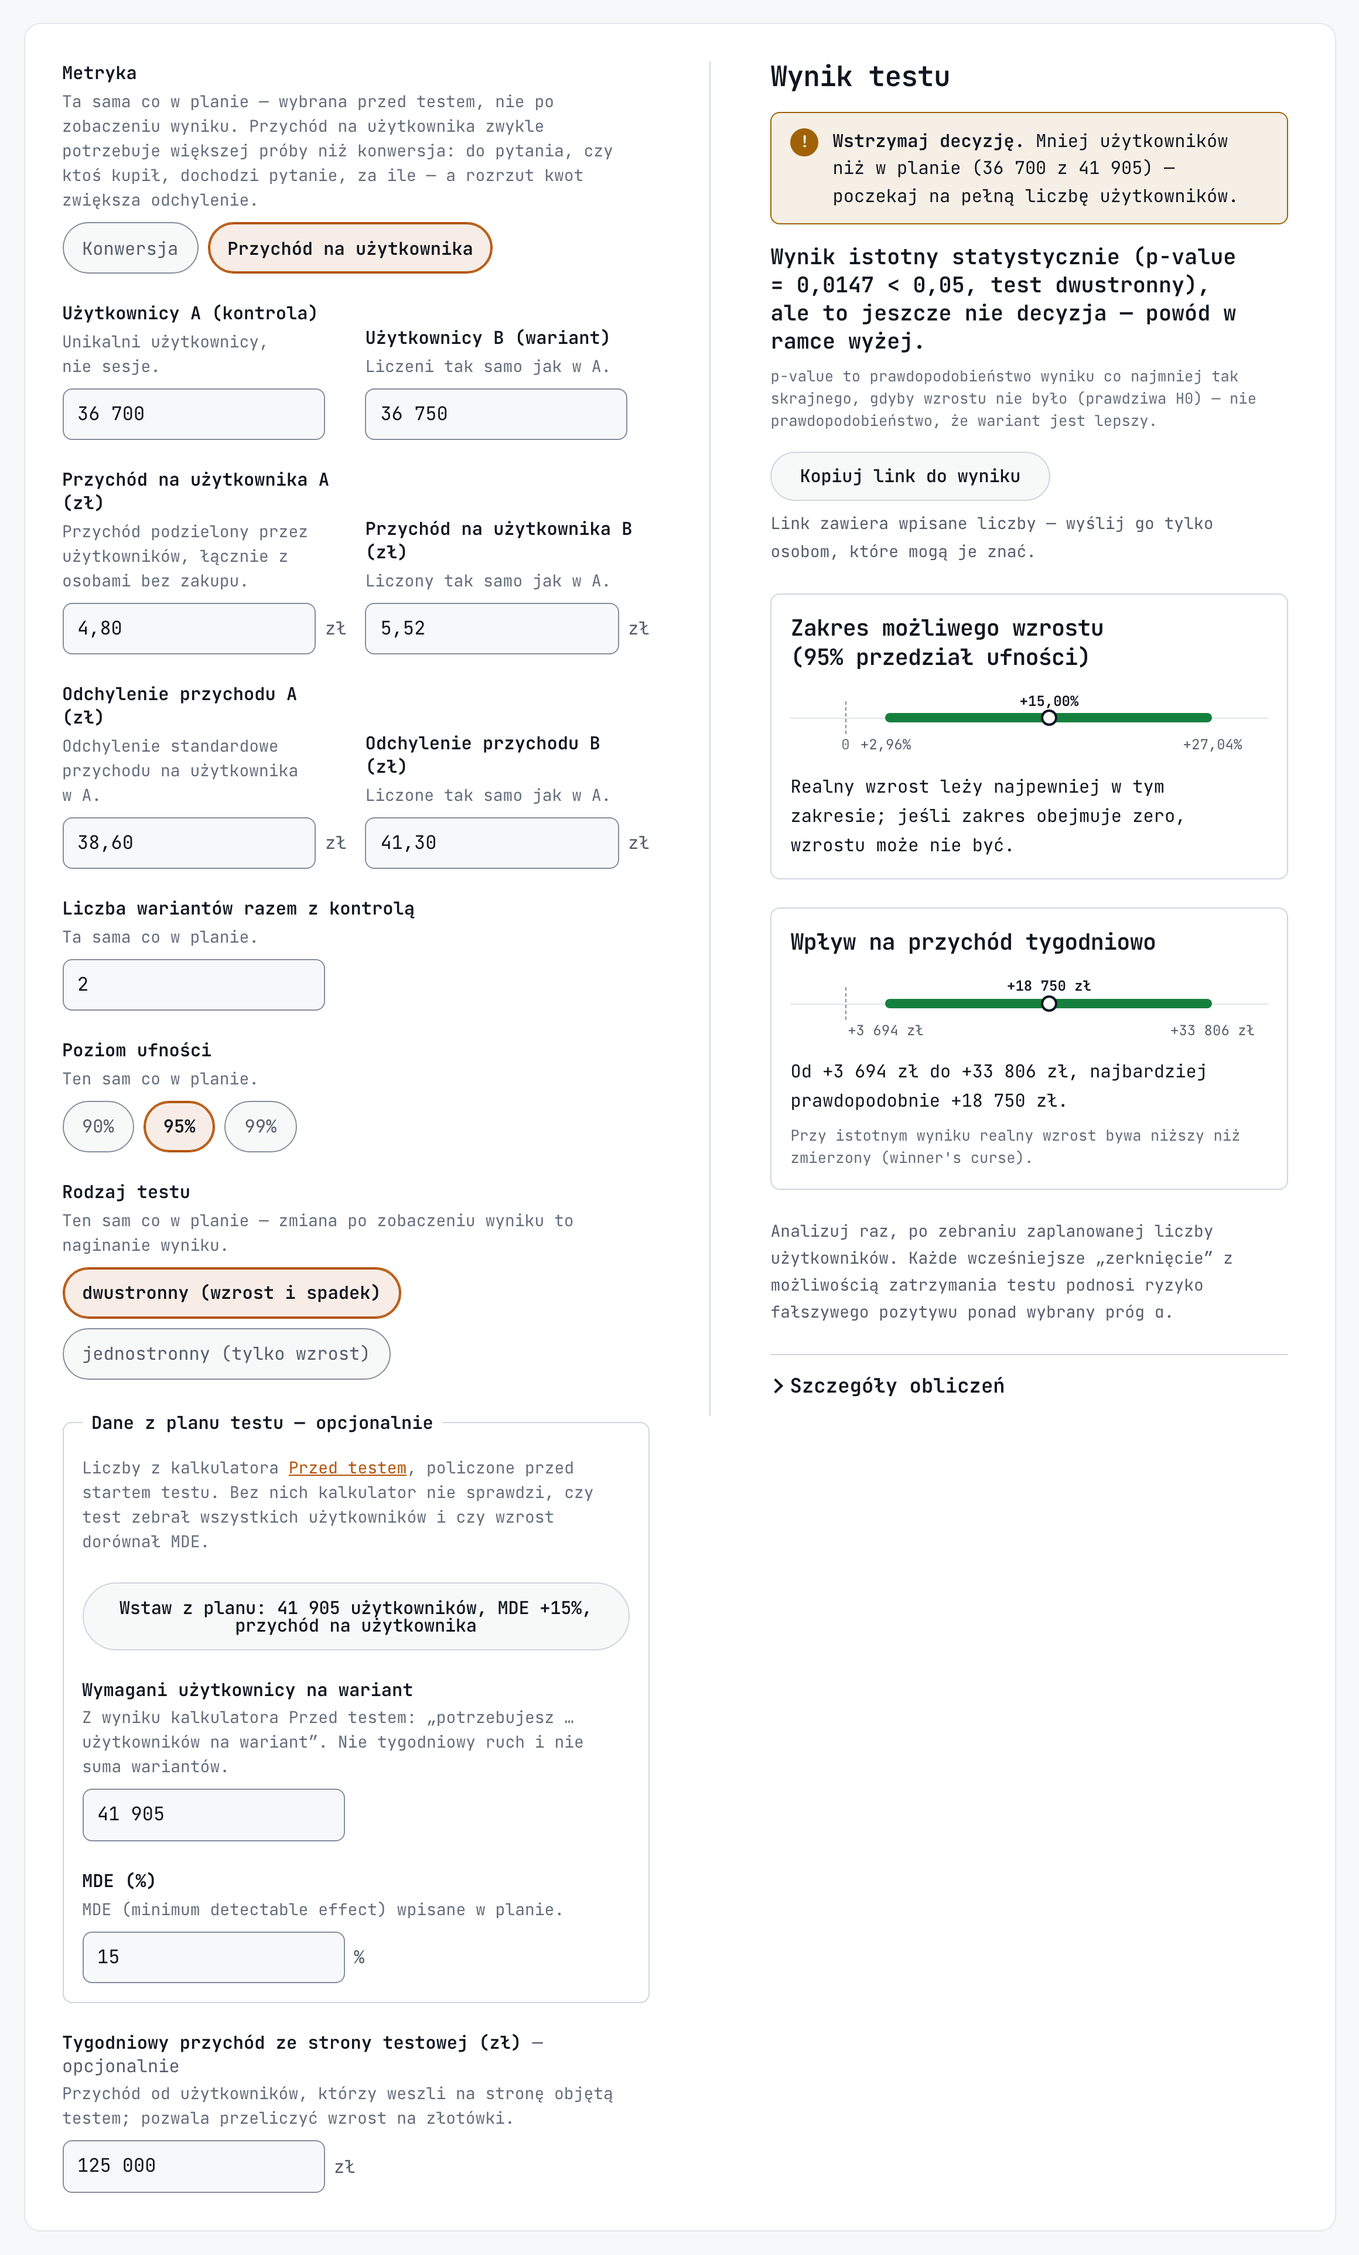
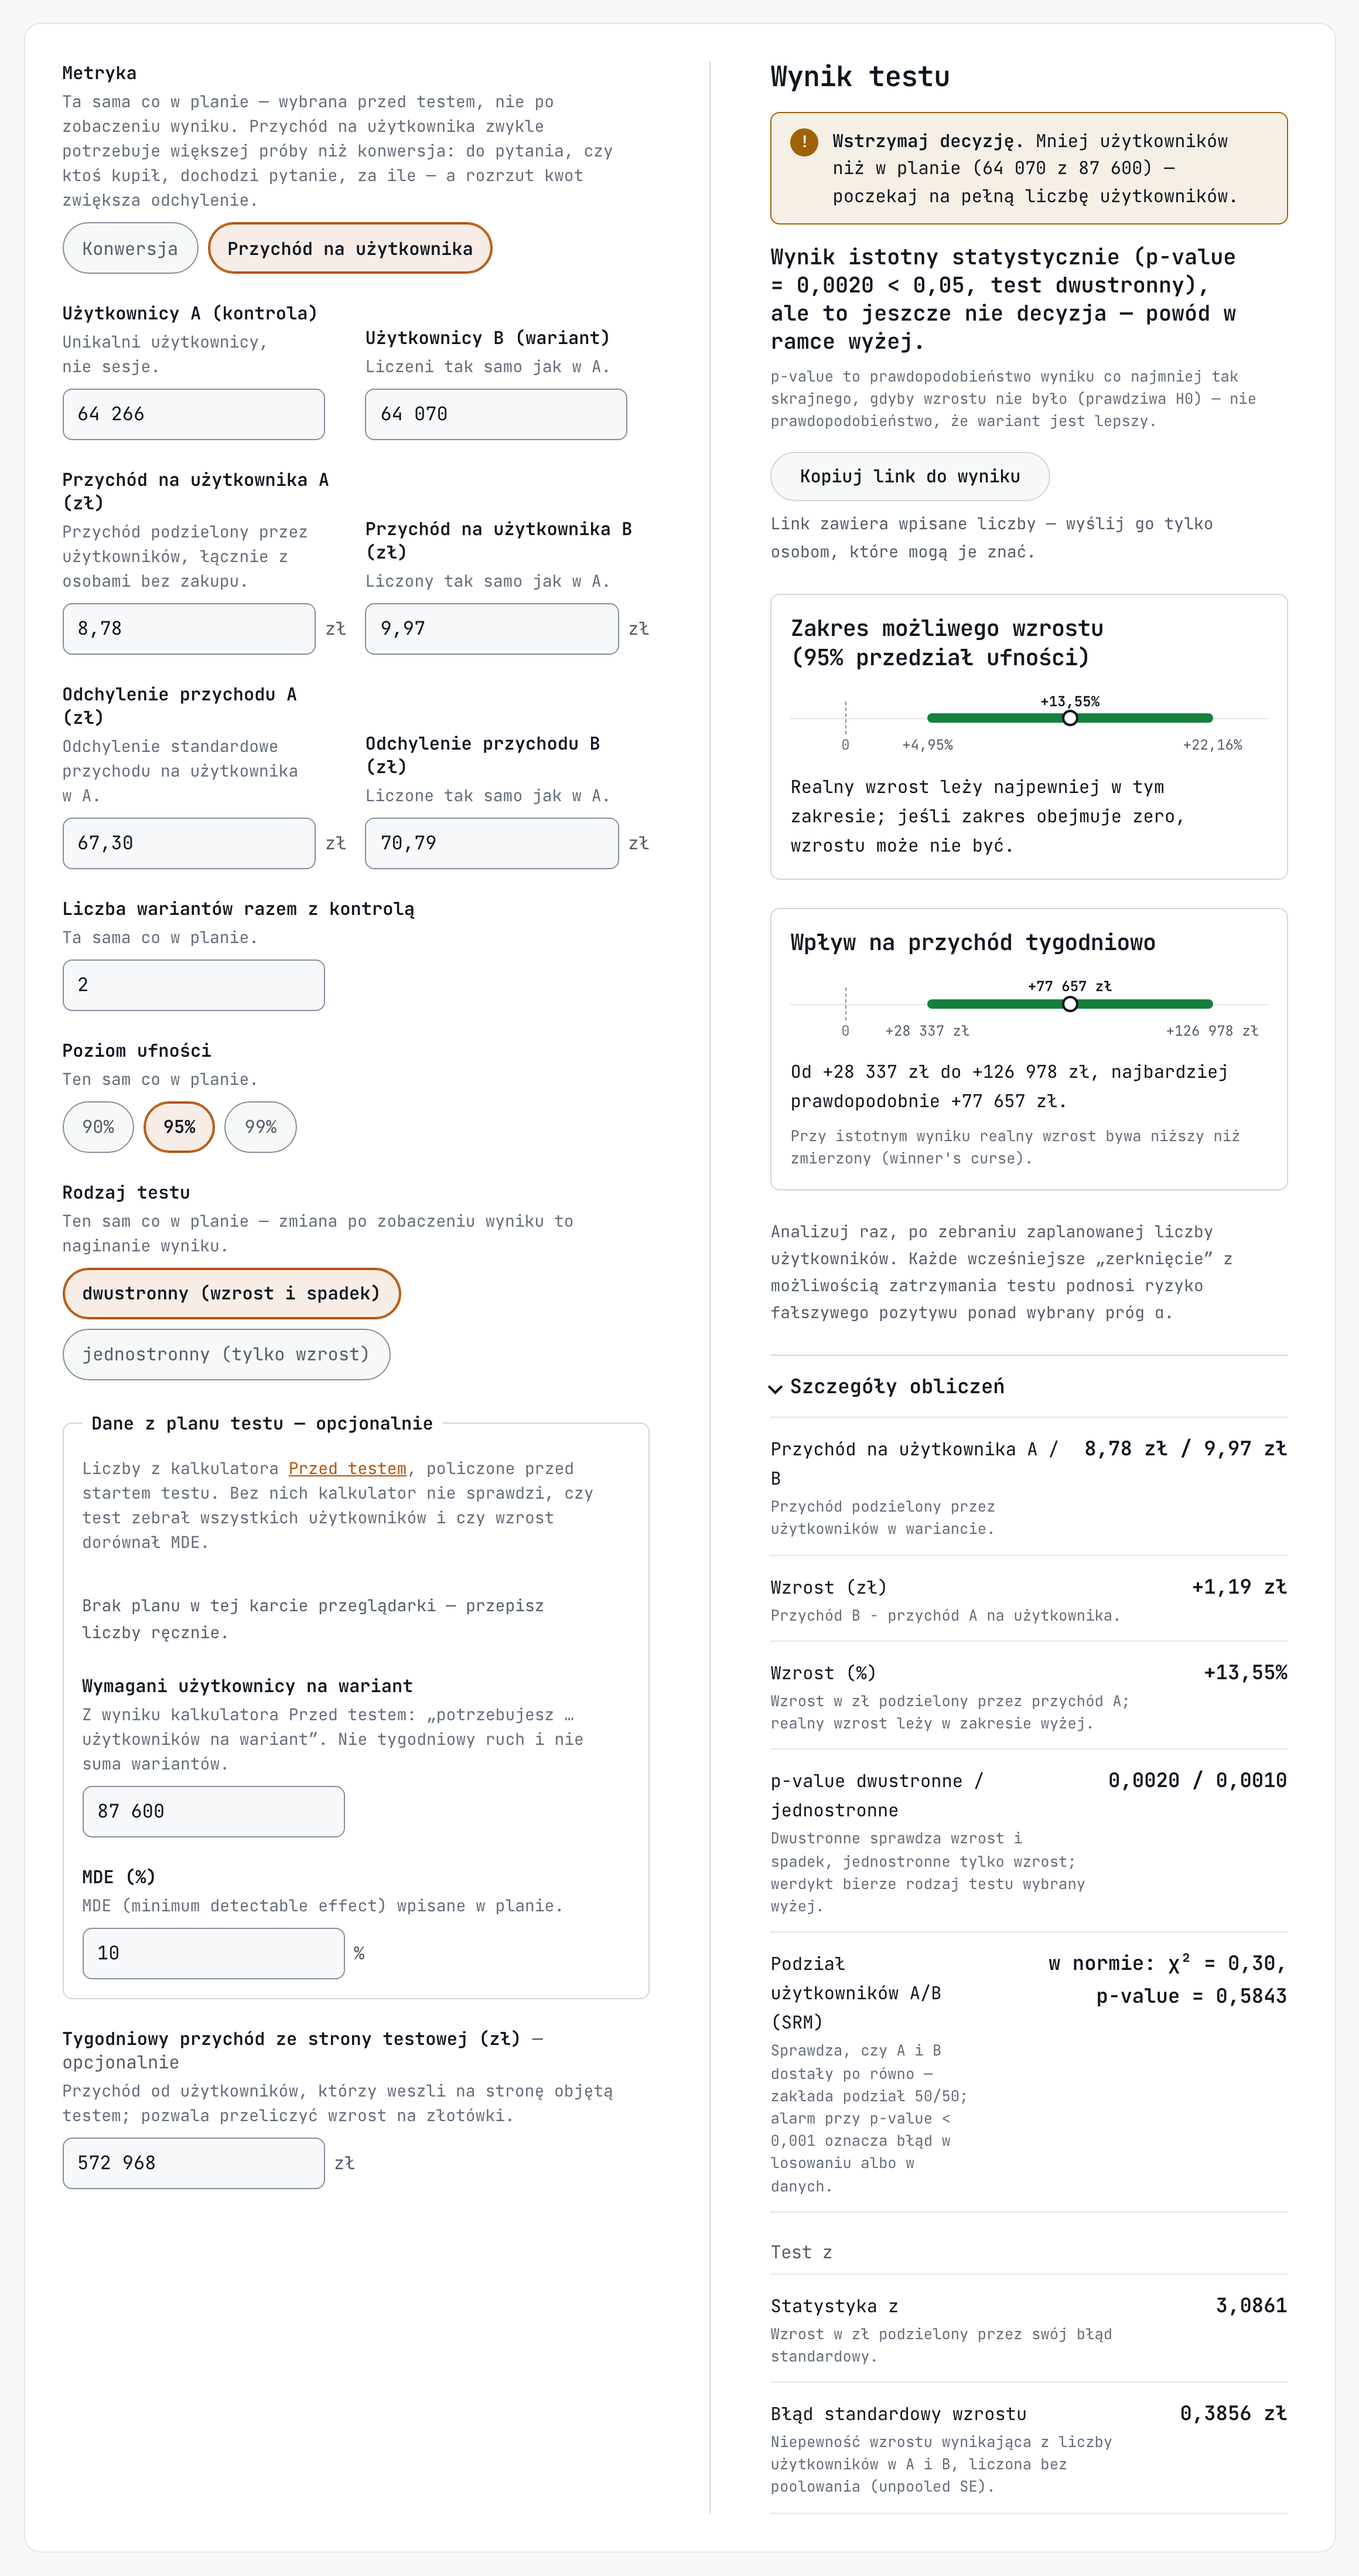
docs: zrzuty kalkulatorów i wyników BigQuery dla testu ab2
Kalkulatory z rozwiniętymi szczegółami obliczeń, pod nimi wyniki 01, 02 i 03 z BigQuery; przykład w README na liczbach ab2.

diff --git a/README.md b/README.md
@@ -11,7 +11,7 @@ Wynik `03` dla wszystkich testów naraz, z testami danych: [projekt dbt](dbt/REA
 
 ## Szybki start
 
-1. Podmień `twoj-projekt.analytics_123456789.events_*` na swój eksport GA4 — w każdym pliku w dwóch miejscach.
+1. Podmień `ab-test-sandbox.ga4_syntetyczny.events_*` (dane syntetyczne) na swój eksport GA4, np. `twoj-projekt.analytics_123456789.events_*` — w każdym pliku w dwóch miejscach.
 2. Ustaw `DECLARE` (opis w nagłówku pliku); `ASSERT` zatrzyma zapytanie przy złej wartości albo brakujących dniach eksportu.
 3. Uruchom i przepisz liczby do kalkulatora według kroków.
 
@@ -55,16 +55,24 @@ Oba kalkulatory mają przełącznik „Metryka”: wybierasz ją w planie i tę 
 - **Konwersja (CR)** = konwertujący / użytkownicy: czy więcej osób kupuje. Nie widzi koszyka — upsell z CR −2% i koszykiem +10% wyjdzie jako przegrana.
 - **Przychód na użytkownika (RPU)** = przychód wariantu / jego użytkownicy = CR × przychód na kupującego. Łapie obie zmiany, bliżej mu do sprzedaży. Mianownik to wszyscy użytkownicy, także z 0 zł.
 - **RPU potrzebuje więcej użytkowników**, bo przychód ma większy rozrzut niż „kupił / nie kupił”. Kohavi, Tang i Xu (*Trustworthy Online Controlled Experiments*) pokazują na kuponie, że wskaźnik zakupu (0/1) ma mniejszą wariancję niż przychód i szybciej wykrywa efekt; w rozdziale 18 (wariancja i czułość) zalecają przycinanie (capping) wartości skrajnych. Ile więcej, zależy od rozrzutu kwot: przy typowym nawet 2× przy tym samym MDE.
-- **Przykład:** ta sama strona i MDE +15% to przy CR 36 693 użytkowników na wariant (4 tygodnie), przy RPU 41 905 (5 tygodni). Wynik `03`, który przy CR daje „Wdrażaj B”, przy RPU daje „Wstrzymaj decyzję”: 36 700 użytkowników to za mało dla planu RPU (zrzuty niżej).
+- **Przykład (test `ab2` na danych syntetycznych):** ta sama strona i MDE +10% to przy CR 49 807 użytkowników na wariant (2 tygodnie), przy RPU 87 600 (3 tygodnie). Wynik `03` po 2 tygodniach, który przy CR daje „Wdrażaj B”, przy RPU daje „Wstrzymaj decyzję”: 64 070 użytkowników to za mało dla planu RPU (zrzuty niżej).
 - **Jedno duże zamówienie** potrafi przesądzić średnią, więc `01`, `03` i dbt przycinają przychód osoby do 99,9 percentyla kupujących, a zamówienie liczą raz na `transaction_id`. Metrykę ustalasz przed startem: wybór po wyniku tej, która wyszła istotna, to dwa testy zamiast jednego i większa szansa na fałszywego zwycięzcę.
 
 ## Kalkulator Przed testem
 
 [pmdata.pl/kalkulatory/wielkosc-proby-test-ab](https://pmdata.pl/kalkulatory/wielkosc-proby-test-ab/) — ilu użytkowników potrzebuje test i ile tygodni potrwa przy Twoim ruchu.
 
-![Kalkulator Przed testem wypełniony przykładowymi danymi, z przychodem](docs/img/przed-testem.png)
+Zrzuty w tej i następnej sekcji: test `ab2` (2026-09-07 – 2026-09-20) z danych syntetycznych, liczby z `01`, `02` i `03`.
 
-![Kalkulator Przed testem w trybie przychodu na użytkownika: 41 905 użytkowników na wariant, plan niewykonalny w limicie 4 tygodni](docs/img/przed-testem-przychod.png)
+![Kalkulator Przed testem dla testu ab2 w trybie konwersji: 49 807 użytkowników na wariant, test potrwa 2 tygodnie](docs/img/przed-testem.png)
+
+![Kalkulator Przed testem dla testu ab2 w trybie przychodu na użytkownika: 87 600 użytkowników na wariant, test potrwa 3 tygodnie](docs/img/przed-testem-przychod.png)
+
+Wyniki z BigQuery, z których pochodzą liczby w kalkulatorze — [`01`](sql/01_przed_testem.sql) (wiersz `weeks = 2`) i [`02`](sql/02_przychod_tygodniowy.sql):
+
+![Wynik zapytania 01 w BigQuery dla testu ab2: okna 1 i 2 tygodnie, 64 287 użytkowników i 2 056 konwertujących w tygodniu przy 2 tygodniach](docs/img/bigquery-01-przed-testem.png)
+
+![Wynik zapytania 02 w BigQuery dla testu ab2: tygodniowy przychód 572 968 zł, średnia i mediana](docs/img/bigquery-02-przychod-tygodniowy.png)
 
 - **MDE** — próg biznesowy, nie prognoza: najmniejszy wzrost wart czasu testu. Względny: +15% przy CR 2% to +0,30 pp. Optymizm skraca test, który przeoczy realny, mniejszy wzrost.
 - **Poziom ufności i moc** — ufność chroni przed fałszywym alarmem (α = 1 − ufność: przy 95% co 20. test bez efektu pokaże różnicę), moc przed przeoczeniem (przy 80% wzrost równy MDE wykryjesz w 4 testach na 5). Wyższe = dłuższy test.
@@ -78,9 +86,13 @@ Oba kalkulatory mają przełącznik „Metryka”: wybierasz ją w planie i tę 
 
 [pmdata.pl/kalkulatory/istotnosc-testu-ab](https://pmdata.pl/kalkulatory/istotnosc-testu-ab/) — co zrobić z wariantem B. Na górze decyzja i skutek w złotówkach, w „Szczegóły obliczeń” liczby.
 
-![Kalkulator Po teście wypełniony przykładowymi danymi, z danymi z planu i przychodem](docs/img/po-tescie.png)
+![Kalkulator Po teście dla testu ab2 w trybie konwersji: Wdrażaj B, wzrost +13,84%](docs/img/po-tescie.png)
 
-![Kalkulator Po teście w trybie przychodu na użytkownika: wzrost istotny, ale decyzja wstrzymana, bo test zebrał mniej użytkowników niż plan RPU](docs/img/po-tescie-przychod.png)
+![Kalkulator Po teście dla testu ab2 w trybie przychodu na użytkownika: wzrost istotny, ale decyzja wstrzymana, bo 2 tygodnie dały mniej użytkowników niż plan RPU](docs/img/po-tescie-przychod.png)
+
+Wynik z BigQuery, z którego pochodzą liczby w kalkulatorze — [`03`](sql/03_po_tescie_warianty.sql):
+
+![Wynik zapytania 03 w BigQuery dla testu ab2: kontrola 64 266 użytkowników i 2 038 konwertujących, wariant v1 64 070 i 2 313](docs/img/bigquery-03-po-tescie.png)
 
 - **Dane z planu (opcjonalne)** — wymagani użytkownicy na jeden wariant (nie tygodniowy ruch ani suma) i MDE z „Przed testem”. Bez nich werdykt zależy tylko od p-value, łatwego do oszukania zaglądaniem w trakcie; z nimi kalkulator wstrzymuje decyzję, gdy test zatrzymano przed 95% planu albo przedłużono ponad 125%, a ręcznie wpisane liczby sprawdza z MDE przy mocy 80% (rozjazd > 25% = ostrzeżenie).
 - **p-value** — prawdopodobieństwo wyniku co najmniej tak skrajnego, gdyby wzrostu nie było, a nie tego, że B jest lepsze. Kalkulator pokazuje dwu- i jednostronne, werdykt bierze rodzaj testu z planu.
